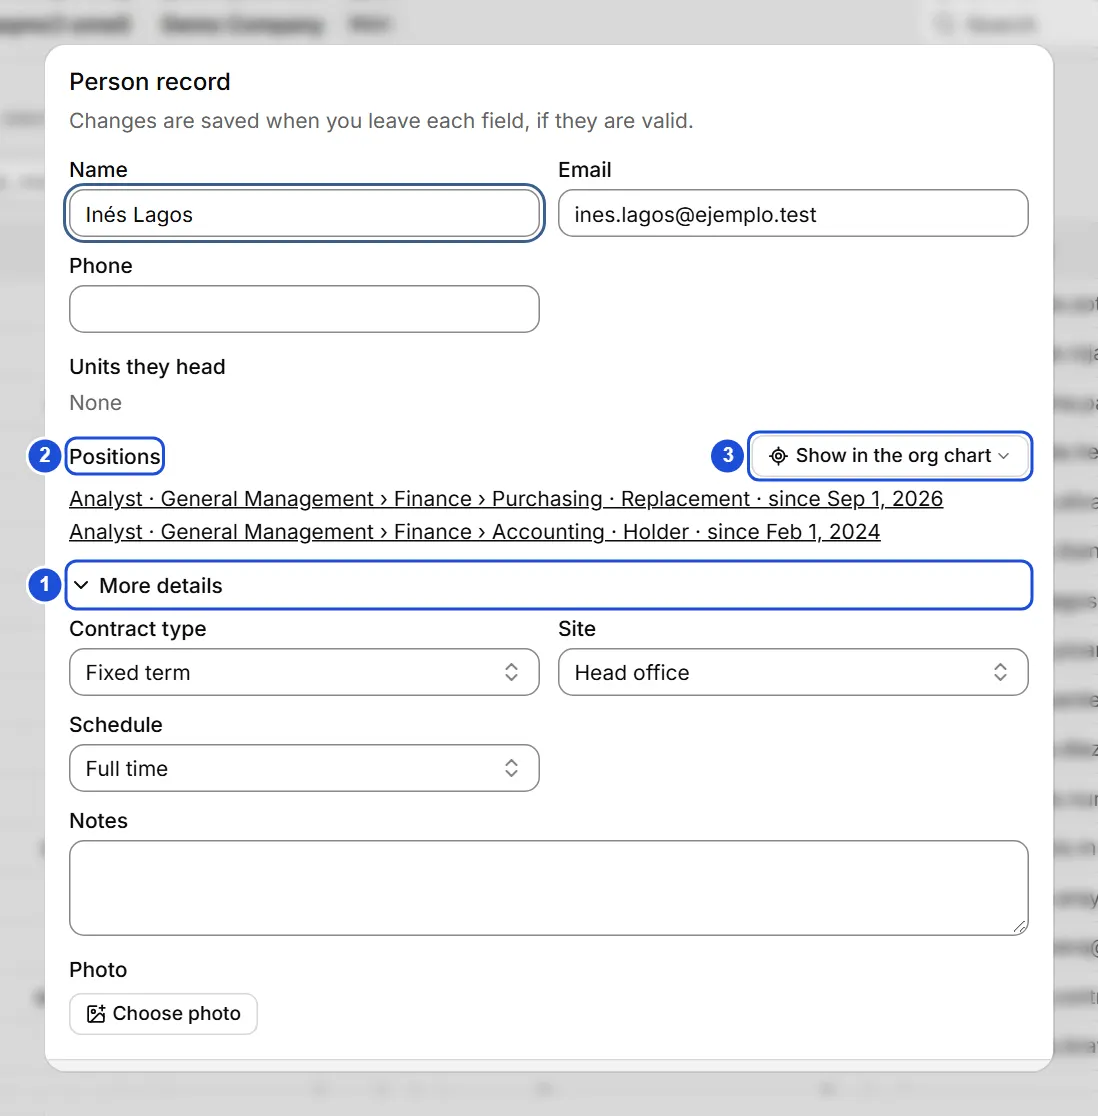
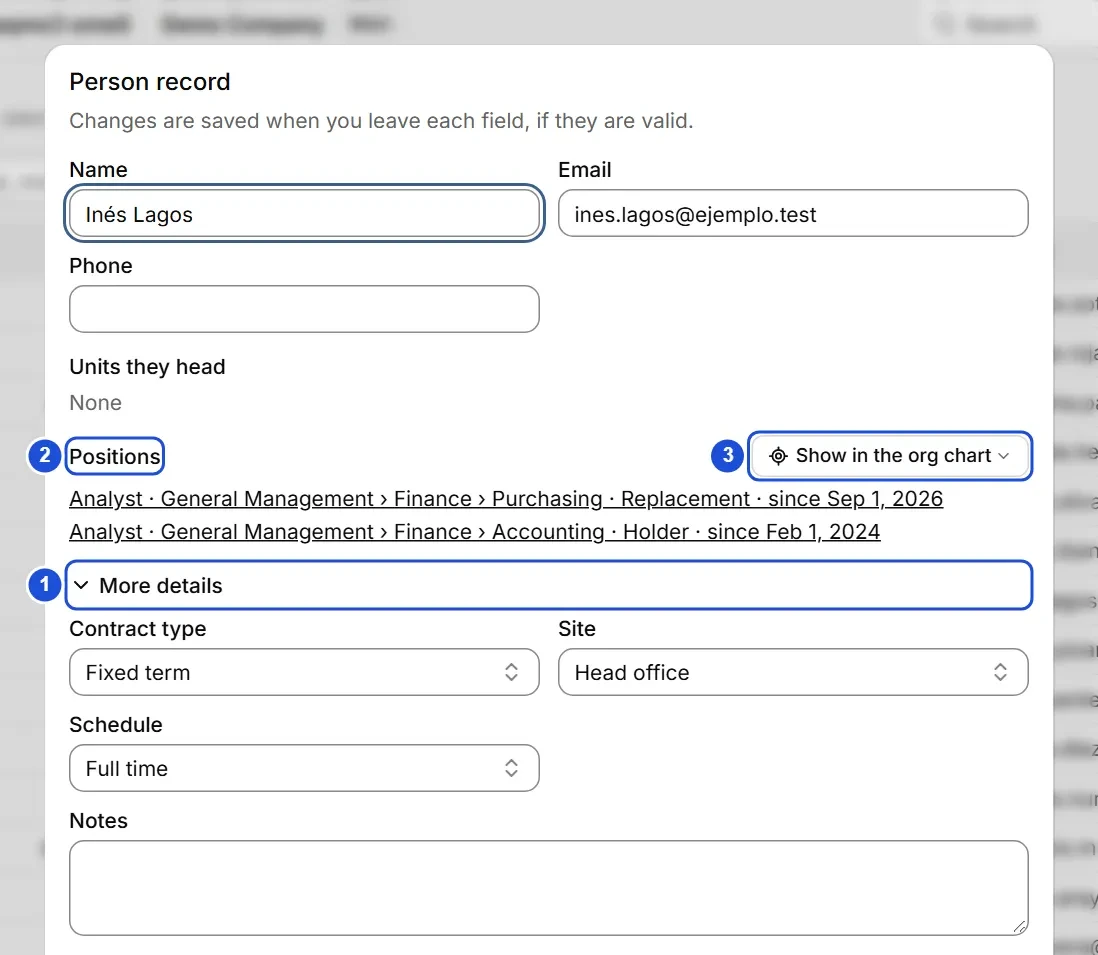
fix(fotos): el arnés busca el botón por atributo, captura sin foto y aviso más claro

diff --git a/src/features/fotos/AvisoFotos.vue b/src/features/fotos/AvisoFotos.vue
@@ -47,7 +47,9 @@ async function quitar() {
       </AlertDialogHeader>
       <AlertDialogFooter>
         <Button type="button" variant="outline" @click="masTarde">{{ t("fotos.aviso.masTarde") }}</Button>
-        <Button type="button" @click="quitar">{{ t("fotos.aviso.quitar") }}</Button>
+        <Button type="button" data-accion="quitar-fotos" @click="quitar">{{
+          t("fotos.aviso.quitar")
+        }}</Button>
       </AlertDialogFooter>
     </AlertDialogContent>
   </AlertDialog>

diff --git a/src/features/fotos/AvisoFotos.test.ts b/src/features/fotos/AvisoFotos.test.ts
@@ -38,5 +38,7 @@ describe("AvisoFotos", () => {
     expect(s).toContain("Tienes fotos en «Norte» y 2 respaldos.");
     expect(s).toContain("Quitar las fotos ahora");
     expect(s).toContain("Más tarde");
+    // el arnés de la app real busca el botón por este atributo, no por su texto (cambia con el idioma)
+    expect(s).toContain('data-accion="quitar-fotos"');
   });
 });

diff --git a/ayuda/es/fichas.md b/ayuda/es/fichas.md
@@ -10,7 +10,7 @@ El cargo y la unidad no se editan en la ficha: son del **puesto** que la persona
 
 A la vista están el nombre, el correo, el teléfono, las unidades que encabeza y sus puestos. **Tipo de contrato**, **sede**, **jornada** y **notas** están en **Más datos**: se abre solo si la persona ya tiene alguno de esos datos o hay un error ahí; si no, con un clic, y queda como lo dejes.
 
-![Ficha de persona con nombre, correo, teléfono, puestos y el bloque Más datos abierto.](../img/es/fichas-ficha.webp "La ficha de una persona. 1: Más datos, con contrato, sede, jornada y notas. 2: los puestos de la persona. 3: ver a la persona en el organigrama."){width=732 height=744}
+![Ficha de persona con nombre, correo, teléfono, puestos y el bloque Más datos abierto.](../img/es/fichas-ficha.webp "La ficha de una persona. 1: Más datos, con contrato, sede, jornada y notas. 2: los puestos de la persona. 3: ver a la persona en el organigrama."){width=732 height=637}
 
 ## Listas de valores
 

diff --git a/ayuda/en/fichas.md b/ayuda/en/fichas.md
@@ -10,7 +10,7 @@ Job title and unit are not edited in the record: they belong to the **position**
 
 The name, email, phone, the units the person heads and their positions are in plain view. **Contract type**, **site**, **schedule** and **notes** are under **More details**: it opens by itself if the person already has any of those or there is an error there; otherwise with a click, and it stays as you leave it.
 
-![Person record with name, email, phone, positions and the More details block open.](../img/en/fichas-ficha.webp "A person's record. 1: More details, with contract, site, schedule and notes. 2: the person's positions. 3: show the person in the org chart."){width=732 height=744}
+![Person record with name, email, phone, positions and the More details block open.](../img/en/fichas-ficha.webp "A person's record. 1: More details, with contract, site, schedule and notes. 2: the person's positions. 3: show the person in the org chart."){width=732 height=637}
 
 ## Value lists
 
